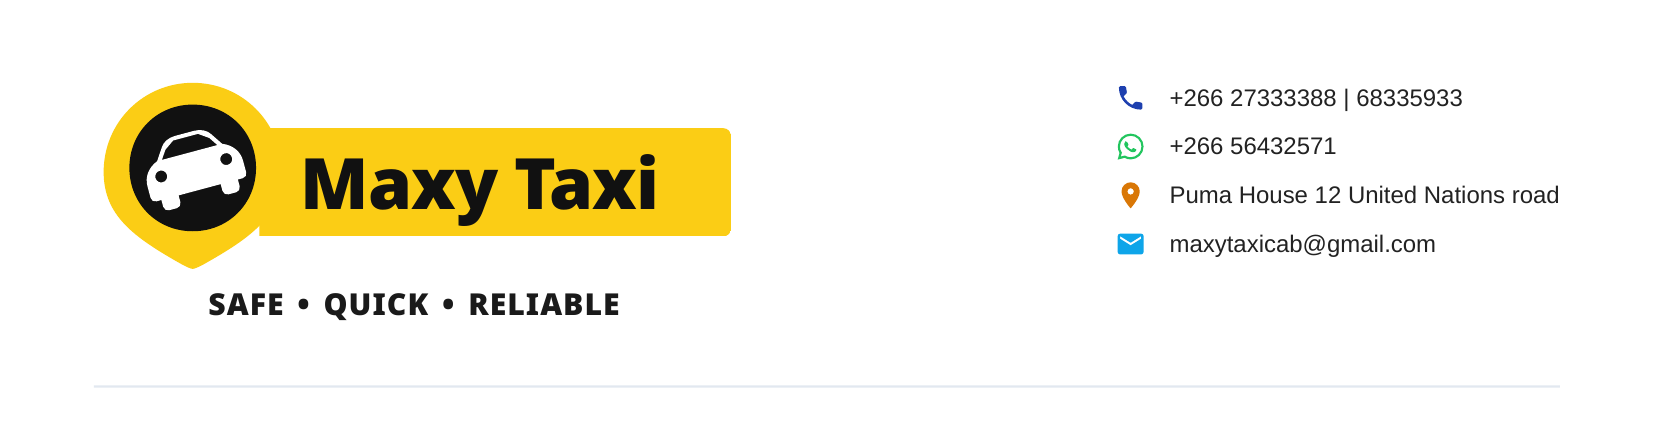
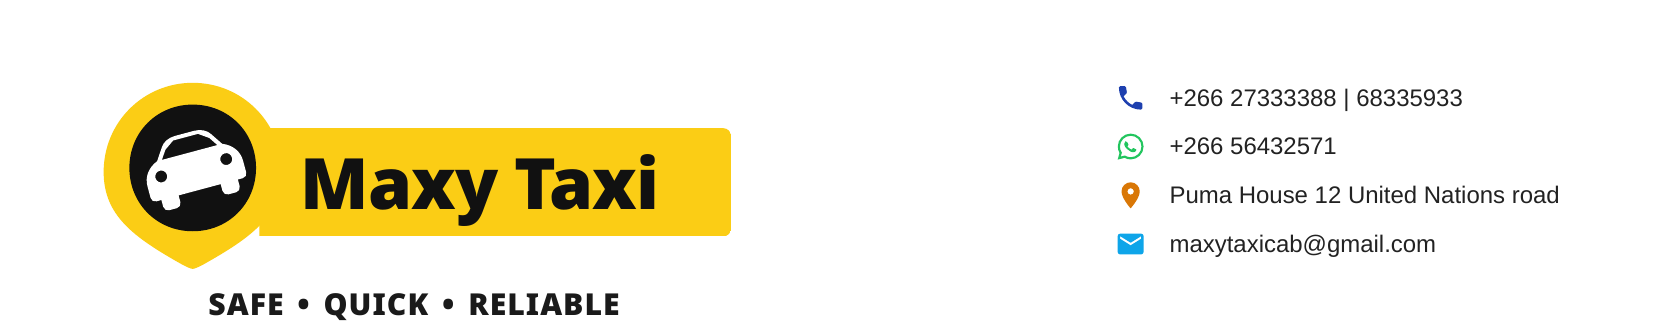
Add files via upload

diff --git a/app.py b/app.py
@@ -67,15 +67,17 @@ def check_password():
     if st.session_state.authenticated:
         return True
 
-    st.markdown("<br>", unsafe_allow_html=True)
+    st.markdown("<br><br>", unsafe_allow_html=True)
     col_a, col_b, col_c = st.columns([1, 2, 1])
     with col_b:
         logo_icon = os.path.join(os.path.dirname(__file__), "logo_icon.jpg")
-        if os.path.exists(logo_icon):
+        logo_clean = os.path.join(os.path.dirname(__file__), "logo_clean.png")
+        if os.path.exists(logo_clean):
+            st.image(logo_clean, use_container_width=True)
+        elif os.path.exists(logo_icon):
             st.image(logo_icon, use_container_width=True)
-        st.markdown("<h2 style='text-align:center; color:#f5a623; margin:8px 0 4px 0;'>MAXY TAXI</h2>", unsafe_allow_html=True)
-        st.markdown("<p style='text-align:center; color:#aaa; font-size:12px; letter-spacing:2px;'>SAFE • QUICK • RELIABLE</p>", unsafe_allow_html=True)
-        st.markdown("<p style='text-align:center; color:#888; font-size:13px; margin-top:16px;'>Business Records Login</p>", unsafe_allow_html=True)
+        st.markdown("<p style='text-align:center; color:#aaa; font-size:12px; letter-spacing:2px; margin-top:4px;'>SAFE • QUICK • RELIABLE</p>", unsafe_allow_html=True)
+        st.markdown("<p style='text-align:center; color:#888; font-size:13px; margin-top:20px;'>Business Records Login</p>", unsafe_allow_html=True)
         password = st.text_input("Password", type="password", key="password_input", label_visibility="collapsed", placeholder="Enter password")
         if st.button("Login", type="primary", use_container_width=True):
             if password == APP_PASSWORD:
@@ -538,8 +540,18 @@ def prepare_records_df():
 
 # ---------------------- PAGES ----------------------
 def page_dashboard():
-    st.header("Dashboard")
-    st.caption("Financial Year 2026 – 2027 (June to May)")
+    # Logo header
+    logo_clean = os.path.join(os.path.dirname(__file__), "logo_clean.png")
+    logo_icon = os.path.join(os.path.dirname(__file__), "logo_icon.jpg")
+    col_l, col_t = st.columns([1, 3])
+    with col_l:
+        if os.path.exists(logo_clean):
+            st.image(logo_clean, use_container_width=True)
+        elif os.path.exists(logo_icon):
+            st.image(logo_icon, use_container_width=True)
+    with col_t:
+        st.header("Dashboard")
+        st.caption("Financial Year 2026 – 2027 (June to May)")
 
     df = prepare_records_df()
     today = date.today()
@@ -1131,12 +1143,12 @@ def main():
     <div style="border: 2px solid #f5a623; border-radius: 12px; padding: 14px; margin-bottom: 12px; background: #111;">
     """, unsafe_allow_html=True)
 
+    logo_clean = os.path.join(os.path.dirname(__file__), "logo_clean.png")
     logo_icon = os.path.join(os.path.dirname(__file__), "logo_icon.jpg")
-    logo_full = os.path.join(os.path.dirname(__file__), "logo.jpg")
-    if os.path.exists(logo_icon):
+    if os.path.exists(logo_clean):
+        st.sidebar.image(logo_clean, use_container_width=True)
+    elif os.path.exists(logo_icon):
         st.sidebar.image(logo_icon, use_container_width=True)
-    elif os.path.exists(logo_full):
-        st.sidebar.image(logo_full, use_container_width=True)
     else:
         st.sidebar.markdown("<h3 style='color:#f5a623; text-align:center; margin:0;'>MAXY TAXI</h3>", unsafe_allow_html=True)
 
